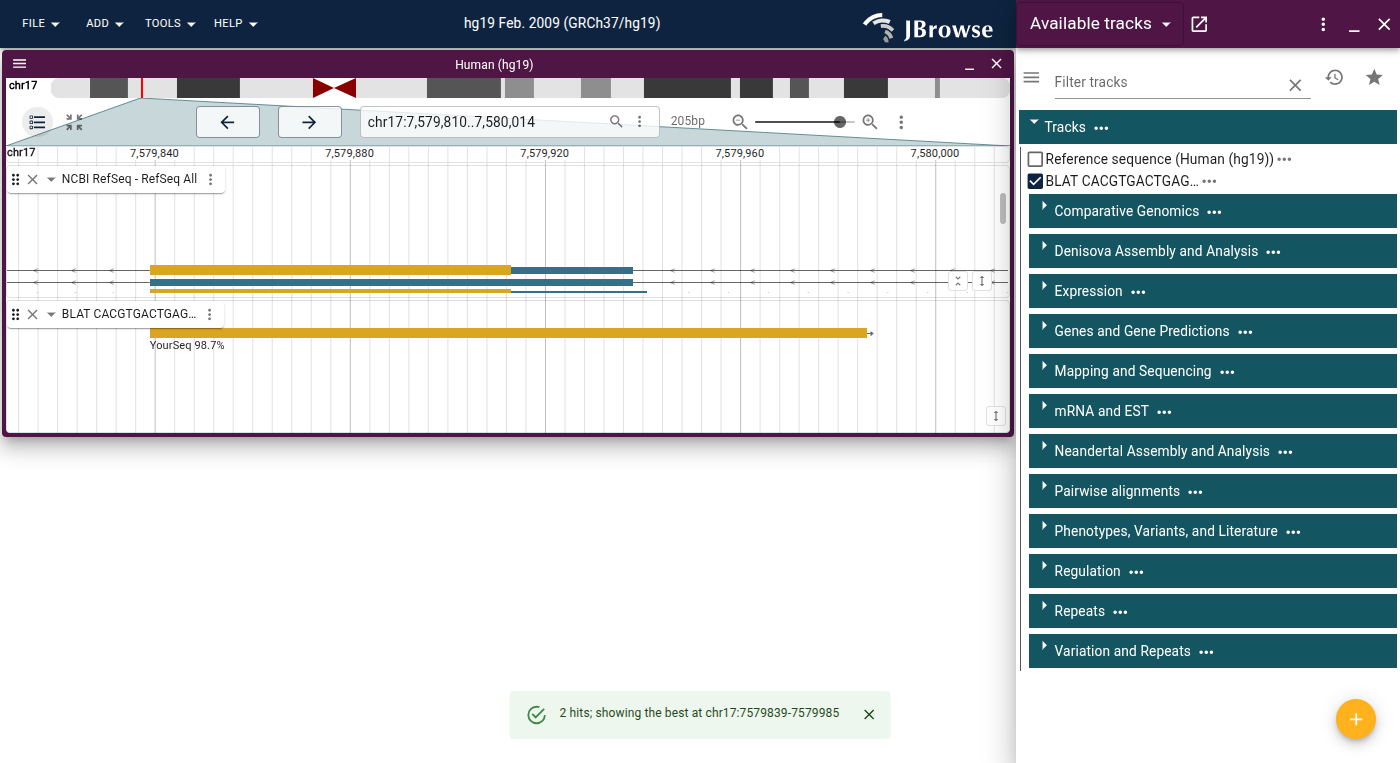
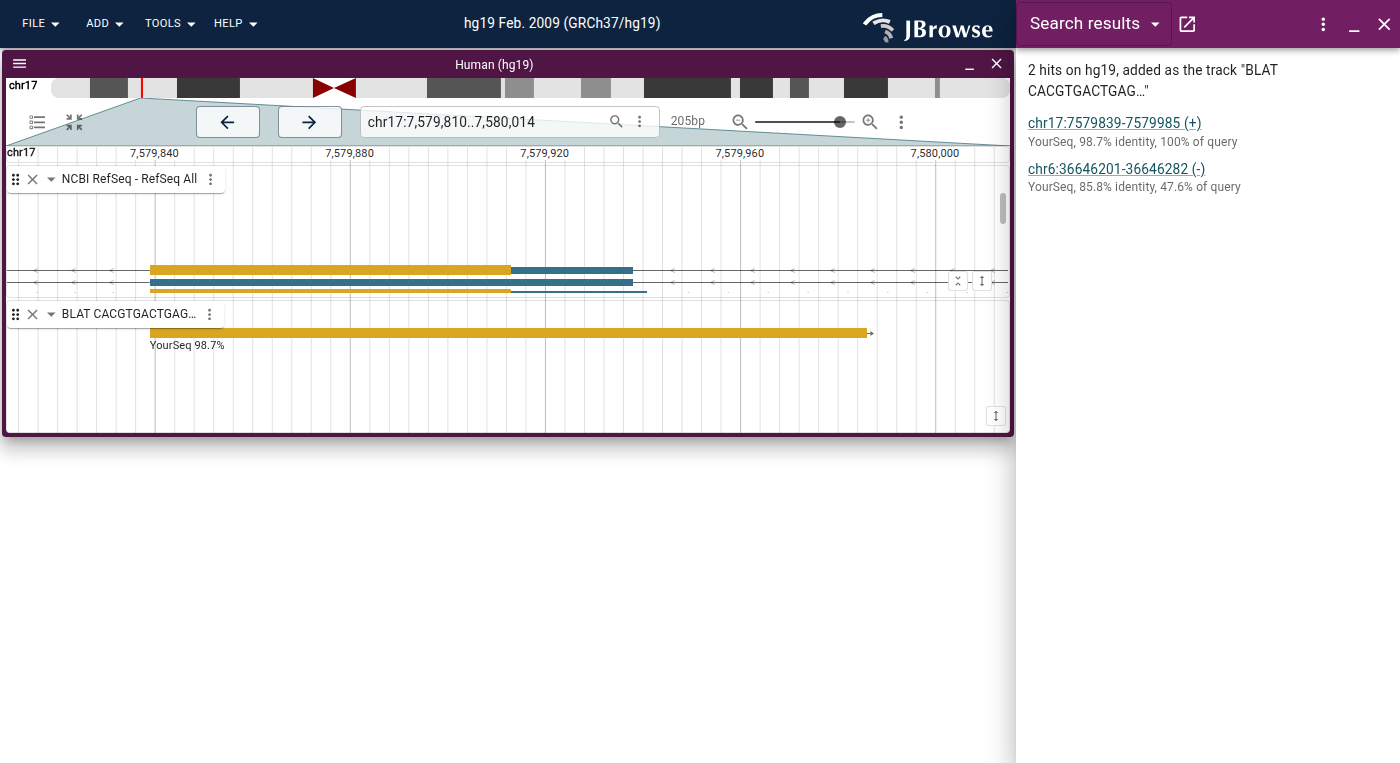
fix(blat): don't report a missing view twice, recapture the desktop figure
addResultTrack called navToFeature unconditionally, so a session with no
open view on the assembly got both "no open view displays X" warnings.
Navigation now happens only on the branch that found a view.

The desktop BLAT figure is recaptured against a rebuilt app: the hit list
in the drawer replaces the snackbar the old capture showed. Each hit is
its location on one line with query/identity/coverage underneath, since a
column table overflowed the drawer at its default width.

Claude-Session: https://claude.ai/code/session_018MT2uhC1qztJLJxBwGAKKq

diff --git a/plugins/blat/src/UcscResultsWidget/UcscResultsWidget.tsx b/plugins/blat/src/UcscResultsWidget/UcscResultsWidget.tsx
@@ -1,25 +1,18 @@
 import { getSession } from '@jbrowse/core/util'
-import {
-  Link,
-  Table,
-  TableBody,
-  TableCell,
-  TableHead,
-  TableRow,
-  Typography,
-} from '@mui/material'
+import { Link, List, ListItem, Typography } from '@mui/material'
 import { observer } from 'mobx-react'
 
-import { navToFeature } from '../ucscShared.ts'
-import { LOCATION_COLUMN, columnsFor } from './resultColumns.ts'
+import { featureLocString, navToFeature } from '../ucscShared.ts'
+import { hitSummary } from './hitSummary.ts'
 
 import type { UcscResultsWidgetModel } from './stateModel.ts'
 
 // The hit list for a BLAT / in-silico PCR query. The query itself navigates to
 // the best hit; this keeps the rest of them readable after the dialog closes,
-// which the snackbar naming only the best one could not. Every location is a
-// link that navigates the same view, so a second-best placement is one click
-// away rather than a re-run.
+// which the snackbar naming only the best one could not. Each location is a link
+// that navigates the open view, so a second-best placement is one click away
+// rather than a re-run. A list rather than a table because the drawer is narrow
+// and a hit's numbers read fine on one line under its coordinates.
 const UcscResultsWidget = observer(function UcscResultsWidget({
   model,
 }: {
@@ -27,46 +20,36 @@ const UcscResultsWidget = observer(function UcscResultsWidget({
 }) {
   const { features, assembly, trackName } = model
   const session = getSession(model)
-  const columns = columnsFor(features)
   return (
     <div style={{ margin: 12 }}>
       <Typography>
         {features.length === 1
-          ? `1 hit on ${assembly}, added as track "${trackName}"`
-          : `${features.length} hits on ${assembly}, added as track "${trackName}"`}
+          ? `1 hit on ${assembly}, added as the track "${trackName}"`
+          : `${features.length} hits on ${assembly}, added as the track "${trackName}"`}
       </Typography>
-      <Table size="small">
-        <TableHead>
-          <TableRow>
-            {columns.map(column => (
-              <TableCell key={column.label}>{column.label}</TableCell>
-            ))}
-          </TableRow>
-        </TableHead>
-        <TableBody>
-          {features.map(feature => (
-            <TableRow key={feature.uniqueId} hover>
-              {columns.map(column => (
-                <TableCell key={column.label}>
-                  {column === LOCATION_COLUMN ? (
-                    <Link
-                      href="#"
-                      onClick={event => {
-                        event.preventDefault()
-                        void navToFeature(session, assembly, feature)
-                      }}
-                    >
-                      {column.cell(feature)}
-                    </Link>
-                  ) : (
-                    column.cell(feature)
-                  )}
-                </TableCell>
-              ))}
-            </TableRow>
-          ))}
-        </TableBody>
-      </Table>
+      <List dense>
+        {features.map(feature => (
+          <ListItem
+            key={feature.uniqueId}
+            disableGutters
+            style={{ display: 'block' }}
+          >
+            <Link
+              href="#"
+              onClick={event => {
+                event.preventDefault()
+                void navToFeature(session, assembly, feature)
+              }}
+            >
+              {featureLocString(feature)}
+              {feature.strand === -1 ? ' (-)' : ' (+)'}
+            </Link>
+            <Typography variant="body2" color="textSecondary">
+              {hitSummary(feature)}
+            </Typography>
+          </ListItem>
+        ))}
+      </List>
     </div>
   )
 })

diff --git a/plugins/blat/src/ucscShared.ts b/plugins/blat/src/ucscShared.ts
@@ -123,13 +123,15 @@ export async function addResultTrack({
   const view = findNavigableView(session, assembly)
   if (view) {
     view.showTrack(trackId)
+    await navToFeature(session, assembly, features[0]!)
   } else {
+    // navToFeature would say the same thing less usefully, so it is skipped
+    // rather than left to report the missing view a second time
     session.notify(
       `Added track "${trackId}" but no open view displays ${assembly}`,
       'warning',
     )
   }
-  await navToFeature(session, assembly, features[0]!)
   if (isSessionModelWithWidgets(session)) {
     session.showWidget(
       session.addWidget('UcscResultsWidget', 'ucscResults', {
